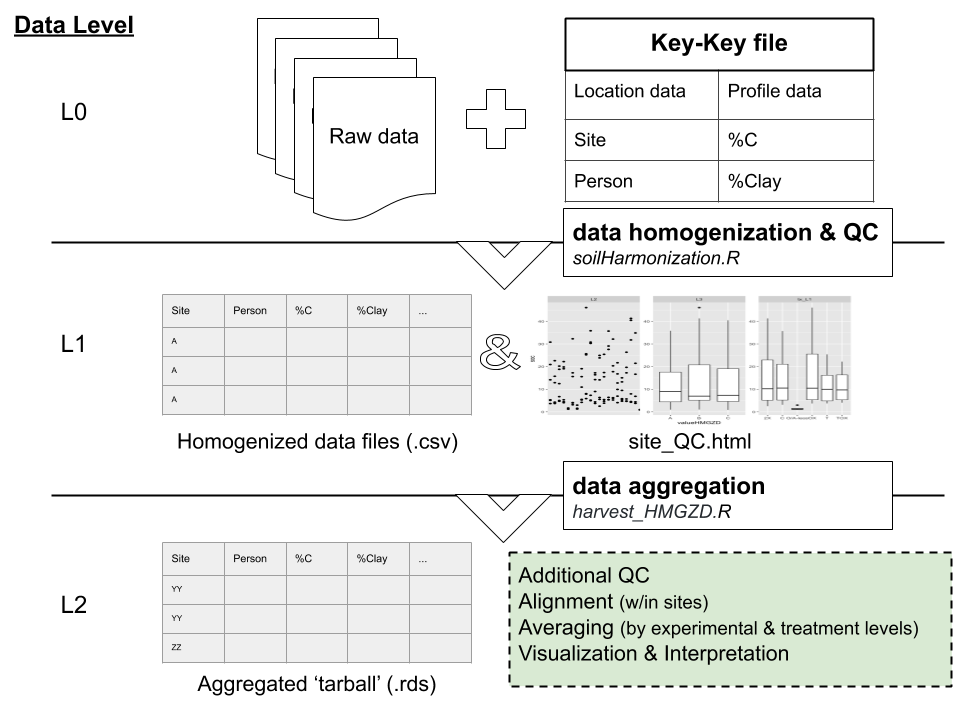
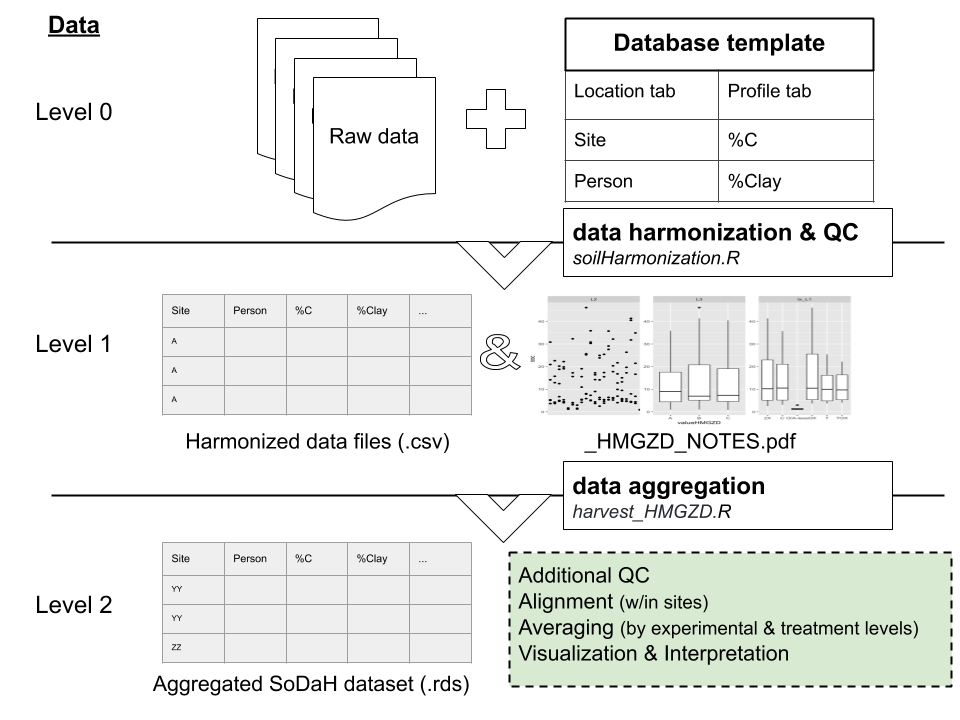
workflow updates

diff --git a/docs/workflow.html b/docs/workflow.html
@@ -351,7 +351,7 @@ $(document).ready(function () {
 </div>
 <div id="data-analysis" class="section level3">
 <h3>Data analysis</h3>
-<p>Get the latest <em>tarball</em> <a href="https://github.com/lter/lterwg-som/blob/master/data-processing/get_latest_som.R">using this script</a></p>
+<p>Get the latest <em>SoDaH database</em> <a href="https://github.com/lter/lterwg-som/blob/master/data-processing/get_latest_som.R">using this script</a></p>
 </div>
 
   <p><br /></p>
